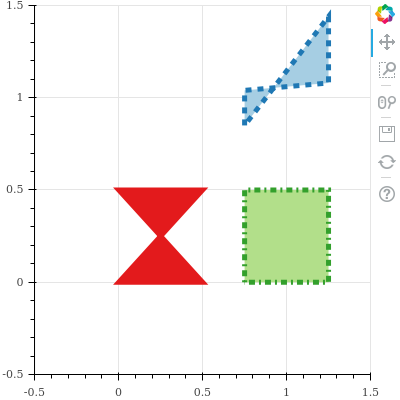
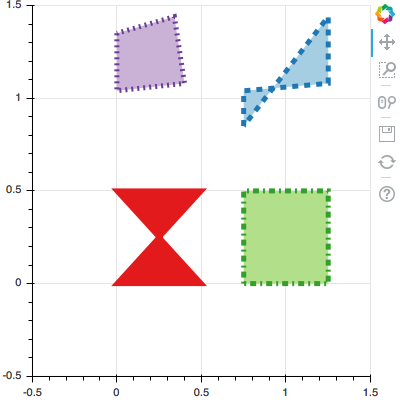
working on glyphs

diff --git a/visualizations/bokeh/figures/patch.html b/visualizations/bokeh/figures/patch.html
@@ -5,9 +5,9 @@
         <meta charset="utf-8">
         <title>Bokeh Plot</title>
         
-<link rel="stylesheet" href="https://cdn.pydata.org/bokeh/release/bokeh-0.12.7.min.css" type="text/css" />
+<link rel="stylesheet" href="https://cdn.pydata.org/bokeh/release/bokeh-0.12.9.min.css" type="text/css" />
         
-<script type="text/javascript" src="https://cdn.pydata.org/bokeh/release/bokeh-0.12.7.min.js"></script>
+<script type="text/javascript" src="https://cdn.pydata.org/bokeh/release/bokeh-0.12.9.min.js"></script>
 <script type="text/javascript">
     Bokeh.set_log_level("info");
 </script>
@@ -26,17 +26,38 @@
     <body>
         
         <div class="bk-root">
-            <div class="bk-plotdiv" id="2cf0758c-d62e-4916-a6c2-0b2ed713cc94"></div>
+            <div class="bk-plotdiv" id="be066793-d713-4ea5-a544-ff64d277d95c"></div>
         </div>
         
         <script type="text/javascript">
             (function() {
           var fn = function() {
             Bokeh.safely(function() {
-              var docs_json = {"1d2ed956-d023-437f-922a-df4885ee4e12":{"roots":{"references":[{"attributes":{},"id":"031e799e-5526-40ce-add3-81c7f3cd5bf5","type":"BasicTicker"},{"attributes":{},"id":"783649a9-7b13-43c9-bb1c-559edea80e43","type":"BasicTickFormatter"},{"attributes":{},"id":"a53f2c96-949e-4280-b8fa-54eeb4a61b49","type":"BasicTicker"},{"attributes":{"fill_color":{"value":"#e31a1c"},"line_color":{"value":"#e31a1c"},"line_width":{"value":5},"x":{"field":"x"},"y":{"field":"y"}},"id":"3ccf216c-2175-4983-8e38-4d4c5ab63ca5","type":"Patch"},{"attributes":{"callback":null,"column_names":["y","x"],"data":{"x":[0,0.5,0,0.5],"y":[0,0.5,0.5,0]}},"id":"83685b91-339f-4bbc-bf65-8c0e359c892e","type":"ColumnDataSource"},{"attributes":{},"id":"c3b8a39f-5ce0-4db8-9dc5-6ad35fe9846f","type":"LinearScale"},{"attributes":{"overlay":{"id":"65f75f9f-3285-4434-b66b-39bb07a7450e","type":"BoxAnnotation"}},"id":"4d49456d-30a8-405a-b2d5-ed7ff653e28e","type":"BoxZoomTool"},{"attributes":{"fill_color":{"value":"#a6cee3"},"line_color":{"value":"#1f78b4"},"line_dash":[6],"line_width":{"value":5},"x":{"field":"x"},"y":{"field":"y"}},"id":"4b864da9-229a-41b8-90b4-dca63ec8a939","type":"Patch"},{"attributes":{"fill_alpha":{"value":0.1},"fill_color":{"value":"#1f77b4"},"line_alpha":{"value":0.1},"line_color":{"value":"#1f77b4"},"line_dash":[6],"line_width":{"value":5},"x":{"field":"x"},"y":{"field":"y"}},"id":"0e69bafe-fbf4-4b23-9811-c5df96c97fb1","type":"Patch"},{"attributes":{"fill_color":{"value":"#a6cee3"},"line_color":{"value":"#1f78b4"},"line_dash":[6],"line_width":{"value":5},"x":{"field":"x"},"y":{"field":"y"}},"id":"c9fff9de-6a8f-4f24-adc7-6ce4940cdd6e","type":"Patch"},{"attributes":{},"id":"0602b227-1480-42d1-a66e-86a65975c71b","type":"BasicTickFormatter"},{"attributes":{"source":{"id":"f5b23d7e-8fbb-467f-b301-7fc6ea789af7","type":"ColumnDataSource"}},"id":"a5012b1f-1249-4eee-a7e6-27b046202a6e","type":"CDSView"},{"attributes":{"plot":{"id":"40107e59-c250-4c44-9ed3-4a3726df6ed9","subtype":"Figure","type":"Plot"},"ticker":{"id":"a53f2c96-949e-4280-b8fa-54eeb4a61b49","type":"BasicTicker"}},"id":"71eb46d8-7958-42c1-a799-90e95cbf6b67","type":"Grid"},{"attributes":{},"id":"efd5be2c-c645-4534-a491-e050ec36cfa5","type":"WheelZoomTool"},{"attributes":{"fill_alpha":{"value":0.1},"fill_color":{"value":"#1f77b4"},"line_alpha":{"value":0.1},"line_color":{"value":"#1f77b4"},"line_width":{"value":5},"x":{"field":"x"},"y":{"field":"y"}},"id":"92dcc0fd-c636-4fc4-9cf4-60e57d223c50","type":"Patch"},{"attributes":{"formatter":{"id":"7d067083-c602-4df6-9245-892c55cc39ee","type":"BasicTickFormatter"},"plot":{"id":"40107e59-c250-4c44-9ed3-4a3726df6ed9","subtype":"Figure","type":"Plot"},"ticker":{"id":"031e799e-5526-40ce-add3-81c7f3cd5bf5","type":"BasicTicker"}},"id":"923780cf-66e6-444a-8ca5-e8988c09cbe1","type":"LinearAxis"},{"attributes":{},"id":"79968414-ca8d-4686-98d8-5f7dd6ecda9d","type":"BasicTicker"},{"attributes":{"data_source":{"id":"f5b23d7e-8fbb-467f-b301-7fc6ea789af7","type":"ColumnDataSource"},"glyph":{"id":"6c5410a0-3aa5-4270-aea4-0842cba5c1f4","type":"Patch"},"hover_glyph":null,"muted_glyph":null,"nonselection_glyph":{"id":"51c5f0de-45fa-4b4d-a3fa-b704635a34c1","type":"Patch"},"selection_glyph":null,"view":{"id":"a5012b1f-1249-4eee-a7e6-27b046202a6e","type":"CDSView"}},"id":"a87ea631-24e8-4779-b33a-820447a7360a","type":"GlyphRenderer"},{"attributes":{"fill_color":{"value":"#b2df8a"},"line_color":{"value":"#33a02c"},"line_dash":[2,4,6,4],"line_width":{"value":5},"x":{"field":"x"},"y":{"field":"y"}},"id":"6c5410a0-3aa5-4270-aea4-0842cba5c1f4","type":"Patch"},{"attributes":{"bounds":[-1,2],"callback":null,"end":1.5,"start":-0.5},"id":"3cc6871c-f84b-4cad-a0b1-6b0635b2a9e0","type":"Range1d"},{"attributes":{},"id":"49033719-64ef-4713-b508-37aa7b1a441a","type":"BasicTicker"},{"attributes":{},"id":"ef94dc9c-6cb8-431a-8c94-095435974932","type":"HelpTool"},{"attributes":{"dimension":1,"plot":{"id":"d9ff9a8d-fe4f-4138-ae7b-86426d08bb76","subtype":"Figure","type":"Plot"},"ticker":{"id":"49033719-64ef-4713-b508-37aa7b1a441a","type":"BasicTicker"}},"id":"6277dd0d-768c-43db-8699-52ffb7747bc9","type":"Grid"},{"attributes":{"fill_color":{"value":"#cab2d6"},"line_color":{"value":"#6a3d9a"},"line_dash":[2,4],"line_width":{"value":5},"x":{"field":"x"},"y":{"field":"y"}},"id":"f6c29d93-8ab6-43f5-8385-7635cf4ab65c","type":"Patch"},{"attributes":{"callback":null,"column_names":["y","x"],"data":{"x":[0.75,0.75,1.25,1.25],"y":[0.85,1.04,1.08,1.44]}},"id":"6ec3e90a-f447-46b9-a627-aa3384a4c715","type":"ColumnDataSource"},{"attributes":{"plot":null,"text":""},"id":"177b1200-b6bd-4154-bb22-ccbb378dfc1e","type":"Title"},{"attributes":{"fill_color":{"value":"#b2df8a"},"line_color":{"value":"#33a02c"},"line_dash":[2,4,6,4],"line_width":{"value":5},"x":{"field":"x"},"y":{"field":"y"}},"id":"ac6e3901-2de1-49e6-95b9-c0b6931ae85c","type":"Patch"},{"attributes":{},"id":"2cd8e201-0aa5-4667-942d-695572f34c43","type":"LinearScale"},{"attributes":{"bounds":[-1,2],"callback":null,"end":1.5,"start":-0.5},"id":"149027be-69a2-4fda-8026-df774d7b6e67","type":"Range1d"},{"attributes":{},"id":"a8ba2ff1-91f9-423a-aa1e-ca48cf7e3005","type":"ResetTool"},{"attributes":{},"id":"43e9833a-2005-47b0-b6d7-e2e536a2f380","type":"LinearScale"},{"attributes":{"data_source":{"id":"5ad27e6c-841e-4d7c-8939-1b69d841e201","type":"ColumnDataSource"},"glyph":{"id":"f6c29d93-8ab6-43f5-8385-7635cf4ab65c","type":"Patch"},"hover_glyph":null,"muted_glyph":null,"nonselection_glyph":{"id":"7af712b8-29a1-470c-a76b-4fdb0f42e5f2","type":"Patch"},"selection_glyph":null,"view":{"id":"7bc45601-b80d-4b09-bce3-eb89c3ca5b0d","type":"CDSView"}},"id":"a7165d2a-b00a-4993-8995-d3b809afcfdc","type":"GlyphRenderer"},{"attributes":{"bounds":[-1,2],"callback":null,"end":1.5,"start":-0.5},"id":"9037298e-64ee-4a86-b092-34eed0d2ca81","type":"Range1d"},{"attributes":{"fill_alpha":{"value":0.1},"fill_color":{"value":"#1f77b4"},"line_alpha":{"value":0.1},"line_color":{"value":"#1f77b4"},"line_dash":[2,4,6,4],"line_width":{"value":5},"x":{"field":"x"},"y":{"field":"y"}},"id":"b1efe2fc-98d8-40ca-be9a-f0584184f5a0","type":"Patch"},{"attributes":{"bottom_units":"screen","fill_alpha":{"value":0.5},"fill_color":{"value":"lightgrey"},"left_units":"screen","level":"overlay","line_alpha":{"value":1.0},"line_color":{"value":"black"},"line_dash":[4,4],"line_width":{"value":2},"plot":null,"render_mode":"css","right_units":"screen","top_units":"screen"},"id":"3a81ff9d-6a40-4730-b91e-39a7ecce71fb","type":"BoxAnnotation"},{"attributes":{"dimension":1,"plot":{"id":"40107e59-c250-4c44-9ed3-4a3726df6ed9","subtype":"Figure","type":"Plot"},"ticker":{"id":"031e799e-5526-40ce-add3-81c7f3cd5bf5","type":"BasicTicker"}},"id":"64c9554e-ceb7-464c-bddd-da0d145a5daf","type":"Grid"},{"attributes":{"below":[{"id":"6d604e4c-e144-428a-b302-8fc83f8bcedc","type":"LinearAxis"}],"left":[{"id":"923780cf-66e6-444a-8ca5-e8988c09cbe1","type":"LinearAxis"}],"plot_height":400,"plot_width":400,"renderers":[{"id":"6d604e4c-e144-428a-b302-8fc83f8bcedc","type":"LinearAxis"},{"id":"71eb46d8-7958-42c1-a799-90e95cbf6b67","type":"Grid"},{"id":"923780cf-66e6-444a-8ca5-e8988c09cbe1","type":"LinearAxis"},{"id":"64c9554e-ceb7-464c-bddd-da0d145a5daf","type":"Grid"},{"id":"65f75f9f-3285-4434-b66b-39bb07a7450e","type":"BoxAnnotation"},{"id":"c5368b68-6254-466b-b20d-20ae8445141d","type":"GlyphRenderer"},{"id":"a8b3e653-59f0-4fd9-aefe-cff5b06f36e6","type":"GlyphRenderer"},{"id":"cc0bd5d7-e7b9-4c79-8f73-10c1e8dabd74","type":"GlyphRenderer"}],"title":{"id":"177b1200-b6bd-4154-bb22-ccbb378dfc1e","type":"Title"},"toolbar":{"id":"1daea587-7221-43f2-8d65-b5736f5aba72","type":"Toolbar"},"x_range":{"id":"3cc6871c-f84b-4cad-a0b1-6b0635b2a9e0","type":"Range1d"},"x_scale":{"id":"43e9833a-2005-47b0-b6d7-e2e536a2f380","type":"LinearScale"},"y_range":{"id":"e194daac-6265-4caf-a155-4c14b8584d8b","type":"Range1d"},"y_scale":{"id":"038f6c83-dc85-40a4-94ec-0d16649b500f","type":"LinearScale"}},"id":"40107e59-c250-4c44-9ed3-4a3726df6ed9","subtype":"Figure","type":"Plot"},{"attributes":{"callback":null,"column_names":["y","x"],"data":{"x":[0.75,0.75,1.25,1.25],"y":[0.85,1.04,1.08,1.44]}},"id":"1c8c70b6-abf4-4e9a-846d-0c379ab33a0a","type":"ColumnDataSource"},{"attributes":{},"id":"b2e44021-b923-4e7d-a6bb-28e6ff9cbe1a","type":"SaveTool"},{"attributes":{"formatter":{"id":"783649a9-7b13-43c9-bb1c-559edea80e43","type":"BasicTickFormatter"},"plot":{"id":"d9ff9a8d-fe4f-4138-ae7b-86426d08bb76","subtype":"Figure","type":"Plot"},"ticker":{"id":"79968414-ca8d-4686-98d8-5f7dd6ecda9d","type":"BasicTicker"}},"id":"dfc4ce8b-ee09-48c5-b7f1-9906ab9da1b5","type":"LinearAxis"},{"attributes":{},"id":"af3243d9-d35b-479f-b638-d71a2b7cbbf2","type":"BasicTickFormatter"},{"attributes":{"callback":null,"column_names":["y","x"],"data":{"x":[0.75,0.75,1.25,1.25],"y":[0,0.5,0.5,0]}},"id":"41f3783d-e0df-46c6-bd16-02d18ca63759","type":"ColumnDataSource"},{"attributes":{"fill_alpha":{"value":0.1},"fill_color":{"value":"#1f77b4"},"line_alpha":{"value":0.1},"line_color":{"value":"#1f77b4"},"line_dash":[2,4,6,4],"line_width":{"value":5},"x":{"field":"x"},"y":{"field":"y"}},"id":"51c5f0de-45fa-4b4d-a3fa-b704635a34c1","type":"Patch"},{"attributes":{"bounds":[-1,2],"callback":null,"end":1.5,"start":-0.5},"id":"e194daac-6265-4caf-a155-4c14b8584d8b","type":"Range1d"},{"attributes":{"formatter":{"id":"0602b227-1480-42d1-a66e-86a65975c71b","type":"BasicTickFormatter"},"plot":{"id":"d9ff9a8d-fe4f-4138-ae7b-86426d08bb76","subtype":"Figure","type":"Plot"},"ticker":{"id":"49033719-64ef-4713-b508-37aa7b1a441a","type":"BasicTicker"}},"id":"2a2468ba-07be-4677-9afc-eeff464e1607","type":"LinearAxis"},{"attributes":{"source":{"id":"41f3783d-e0df-46c6-bd16-02d18ca63759","type":"ColumnDataSource"}},"id":"7be97d2e-df9a-4a6e-a23d-2df51065b2f9","type":"CDSView"},{"attributes":{"data_source":{"id":"7b03a29e-695d-48c9-bf1a-b7f462319091","type":"ColumnDataSource"},"glyph":{"id":"f2d82cc8-910a-434e-bde3-31d20c42064f","type":"Patch"},"hover_glyph":null,"muted_glyph":null,"nonselection_glyph":{"id":"a78a3837-5f10-44b7-9c22-43bc05b9e00d","type":"Patch"},"selection_glyph":null,"view":{"id":"cbc02ddc-7483-4523-85de-5414f2ba7eb3","type":"CDSView"}},"id":"0fce864d-81d0-4056-8464-481a7424edff","type":"GlyphRenderer"},{"attributes":{"fill_color":{"value":"#e31a1c"},"line_color":{"value":"#e31a1c"},"line_width":{"value":5},"x":{"field":"x"},"y":{"field":"y"}},"id":"f2d82cc8-910a-434e-bde3-31d20c42064f","type":"Patch"},{"attributes":{"source":{"id":"1c8c70b6-abf4-4e9a-846d-0c379ab33a0a","type":"ColumnDataSource"}},"id":"61aae645-6d7c-4840-85cf-dddc45d30292","type":"CDSView"},{"attributes":{"below":[{"id":"dfc4ce8b-ee09-48c5-b7f1-9906ab9da1b5","type":"LinearAxis"}],"left":[{"id":"2a2468ba-07be-4677-9afc-eeff464e1607","type":"LinearAxis"}],"plot_height":400,"plot_width":400,"renderers":[{"id":"dfc4ce8b-ee09-48c5-b7f1-9906ab9da1b5","type":"LinearAxis"},{"id":"ab4c9503-8066-4458-a31f-6d842fe3b996","type":"Grid"},{"id":"2a2468ba-07be-4677-9afc-eeff464e1607","type":"LinearAxis"},{"id":"6277dd0d-768c-43db-8699-52ffb7747bc9","type":"Grid"},{"id":"3a81ff9d-6a40-4730-b91e-39a7ecce71fb","type":"BoxAnnotation"},{"id":"0fce864d-81d0-4056-8464-481a7424edff","type":"GlyphRenderer"},{"id":"a87ea631-24e8-4779-b33a-820447a7360a","type":"GlyphRenderer"},{"id":"0b53b412-20fd-46e2-a4f5-11a2172a43cd","type":"GlyphRenderer"},{"id":"a7165d2a-b00a-4993-8995-d3b809afcfdc","type":"GlyphRenderer"}],"title":{"id":"37ce132a-5087-4680-b360-d2ae9ed99b68","type":"Title"},"toolbar":{"id":"bdf06b0c-229b-4c37-90c5-31de34cb34ae","type":"Toolbar"},"x_range":{"id":"9037298e-64ee-4a86-b092-34eed0d2ca81","type":"Range1d"},"x_scale":{"id":"2cd8e201-0aa5-4667-942d-695572f34c43","type":"LinearScale"},"y_range":{"id":"149027be-69a2-4fda-8026-df774d7b6e67","type":"Range1d"},"y_scale":{"id":"c3b8a39f-5ce0-4db8-9dc5-6ad35fe9846f","type":"LinearScale"}},"id":"d9ff9a8d-fe4f-4138-ae7b-86426d08bb76","subtype":"Figure","type":"Plot"},{"attributes":{"plot":{"id":"d9ff9a8d-fe4f-4138-ae7b-86426d08bb76","subtype":"Figure","type":"Plot"},"ticker":{"id":"79968414-ca8d-4686-98d8-5f7dd6ecda9d","type":"BasicTicker"}},"id":"ab4c9503-8066-4458-a31f-6d842fe3b996","type":"Grid"},{"attributes":{"source":{"id":"7b03a29e-695d-48c9-bf1a-b7f462319091","type":"ColumnDataSource"}},"id":"cbc02ddc-7483-4523-85de-5414f2ba7eb3","type":"CDSView"},{"attributes":{"plot":null,"text":""},"id":"37ce132a-5087-4680-b360-d2ae9ed99b68","type":"Title"},{"attributes":{"data_source":{"id":"41f3783d-e0df-46c6-bd16-02d18ca63759","type":"ColumnDataSource"},"glyph":{"id":"ac6e3901-2de1-49e6-95b9-c0b6931ae85c","type":"Patch"},"hover_glyph":null,"muted_glyph":null,"nonselection_glyph":{"id":"b1efe2fc-98d8-40ca-be9a-f0584184f5a0","type":"Patch"},"selection_glyph":null,"view":{"id":"7be97d2e-df9a-4a6e-a23d-2df51065b2f9","type":"CDSView"}},"id":"a8b3e653-59f0-4fd9-aefe-cff5b06f36e6","type":"GlyphRenderer"},{"attributes":{},"id":"7d067083-c602-4df6-9245-892c55cc39ee","type":"BasicTickFormatter"},{"attributes":{"source":{"id":"83685b91-339f-4bbc-bf65-8c0e359c892e","type":"ColumnDataSource"}},"id":"3c9e39b3-f53a-4ffa-a5c9-95a3dab0c33c","type":"CDSView"},{"attributes":{"data_source":{"id":"6ec3e90a-f447-46b9-a627-aa3384a4c715","type":"ColumnDataSource"},"glyph":{"id":"c9fff9de-6a8f-4f24-adc7-6ce4940cdd6e","type":"Patch"},"hover_glyph":null,"muted_glyph":null,"nonselection_glyph":{"id":"0e69bafe-fbf4-4b23-9811-c5df96c97fb1","type":"Patch"},"selection_glyph":null,"view":{"id":"1a965ad6-6dcb-4955-8770-4909d5cb0684","type":"CDSView"}},"id":"0b53b412-20fd-46e2-a4f5-11a2172a43cd","type":"GlyphRenderer"},{"attributes":{"fill_alpha":{"value":0.1},"fill_color":{"value":"#1f77b4"},"line_alpha":{"value":0.1},"line_color":{"value":"#1f77b4"},"line_dash":[2,4],"line_width":{"value":5},"x":{"field":"x"},"y":{"field":"y"}},"id":"7af712b8-29a1-470c-a76b-4fdb0f42e5f2","type":"Patch"},{"attributes":{"bottom_units":"screen","fill_alpha":{"value":0.5},"fill_color":{"value":"lightgrey"},"left_units":"screen","level":"overlay","line_alpha":{"value":1.0},"line_color":{"value":"black"},"line_dash":[4,4],"line_width":{"value":2},"plot":null,"render_mode":"css","right_units":"screen","top_units":"screen"},"id":"65f75f9f-3285-4434-b66b-39bb07a7450e","type":"BoxAnnotation"},{"attributes":{},"id":"e5b281da-4fb7-420c-8ef0-d3c4a049a4fa","type":"HelpTool"},{"attributes":{},"id":"f3e5c8f9-437d-4172-aae9-b6a5c0e98d97","type":"WheelZoomTool"},{"attributes":{"callback":null,"column_names":["y","x"],"data":{"x":[0.75,0.75,1.25,1.25],"y":[0,0.5,0.5,0]}},"id":"f5b23d7e-8fbb-467f-b301-7fc6ea789af7","type":"ColumnDataSource"},{"attributes":{"fill_alpha":{"value":0.1},"fill_color":{"value":"#1f77b4"},"line_alpha":{"value":0.1},"line_color":{"value":"#1f77b4"},"line_width":{"value":5},"x":{"field":"x"},"y":{"field":"y"}},"id":"a78a3837-5f10-44b7-9c22-43bc05b9e00d","type":"Patch"},{"attributes":{"callback":null,"column_names":["y","x"],"data":{"x":[0,0,0.4,0.34],"y":[1.35,1.04,1.08,1.44]}},"id":"5ad27e6c-841e-4d7c-8939-1b69d841e201","type":"ColumnDataSource"},{"attributes":{"fill_alpha":{"value":0.1},"fill_color":{"value":"#1f77b4"},"line_alpha":{"value":0.1},"line_color":{"value":"#1f77b4"},"line_dash":[6],"line_width":{"value":5},"x":{"field":"x"},"y":{"field":"y"}},"id":"2bbd37ae-846e-4fcc-b989-9ebfacaa1e44","type":"Patch"},{"attributes":{"data_source":{"id":"1c8c70b6-abf4-4e9a-846d-0c379ab33a0a","type":"ColumnDataSource"},"glyph":{"id":"4b864da9-229a-41b8-90b4-dca63ec8a939","type":"Patch"},"hover_glyph":null,"muted_glyph":null,"nonselection_glyph":{"id":"2bbd37ae-846e-4fcc-b989-9ebfacaa1e44","type":"Patch"},"selection_glyph":null,"view":{"id":"61aae645-6d7c-4840-85cf-dddc45d30292","type":"CDSView"}},"id":"cc0bd5d7-e7b9-4c79-8f73-10c1e8dabd74","type":"GlyphRenderer"},{"attributes":{},"id":"3f3bd9d7-b638-45f2-ac50-61deb3323735","type":"PanTool"},{"attributes":{},"id":"8db760e7-62d7-40ea-a1fc-6bdee5535d46","type":"SaveTool"},{"attributes":{},"id":"038f6c83-dc85-40a4-94ec-0d16649b500f","type":"LinearScale"},{"attributes":{"formatter":{"id":"af3243d9-d35b-479f-b638-d71a2b7cbbf2","type":"BasicTickFormatter"},"plot":{"id":"40107e59-c250-4c44-9ed3-4a3726df6ed9","subtype":"Figure","type":"Plot"},"ticker":{"id":"a53f2c96-949e-4280-b8fa-54eeb4a61b49","type":"BasicTicker"}},"id":"6d604e4c-e144-428a-b302-8fc83f8bcedc","type":"LinearAxis"},{"attributes":{"source":{"id":"5ad27e6c-841e-4d7c-8939-1b69d841e201","type":"ColumnDataSource"}},"id":"7bc45601-b80d-4b09-bce3-eb89c3ca5b0d","type":"CDSView"},{"attributes":{"data_source":{"id":"83685b91-339f-4bbc-bf65-8c0e359c892e","type":"ColumnDataSource"},"glyph":{"id":"3ccf216c-2175-4983-8e38-4d4c5ab63ca5","type":"Patch"},"hover_glyph":null,"muted_glyph":null,"nonselection_glyph":{"id":"92dcc0fd-c636-4fc4-9cf4-60e57d223c50","type":"Patch"},"selection_glyph":null,"view":{"id":"3c9e39b3-f53a-4ffa-a5c9-95a3dab0c33c","type":"CDSView"}},"id":"c5368b68-6254-466b-b20d-20ae8445141d","type":"GlyphRenderer"},{"attributes":{"overlay":{"id":"3a81ff9d-6a40-4730-b91e-39a7ecce71fb","type":"BoxAnnotation"}},"id":"f9edfc0b-6c89-4da9-922f-ee248467651e","type":"BoxZoomTool"},{"attributes":{"active_drag":"auto","active_inspect":"auto","active_scroll":"auto","active_tap":"auto","tools":[{"id":"3f3bd9d7-b638-45f2-ac50-61deb3323735","type":"PanTool"},{"id":"efd5be2c-c645-4534-a491-e050ec36cfa5","type":"WheelZoomTool"},{"id":"f9edfc0b-6c89-4da9-922f-ee248467651e","type":"BoxZoomTool"},{"id":"b2e44021-b923-4e7d-a6bb-28e6ff9cbe1a","type":"SaveTool"},{"id":"b8d39ee3-12c1-419c-83b3-d47daef8af59","type":"ResetTool"},{"id":"e5b281da-4fb7-420c-8ef0-d3c4a049a4fa","type":"HelpTool"}]},"id":"bdf06b0c-229b-4c37-90c5-31de34cb34ae","type":"Toolbar"},{"attributes":{"callback":null,"column_names":["y","x"],"data":{"x":[0,0.5,0,0.5],"y":[0,0.5,0.5,0]}},"id":"7b03a29e-695d-48c9-bf1a-b7f462319091","type":"ColumnDataSource"},{"attributes":{},"id":"dc43cf26-760f-4473-a7a4-501ba0d956bb","type":"PanTool"},{"attributes":{"active_drag":"auto","active_inspect":"auto","active_scroll":"auto","active_tap":"auto","tools":[{"id":"dc43cf26-760f-4473-a7a4-501ba0d956bb","type":"PanTool"},{"id":"f3e5c8f9-437d-4172-aae9-b6a5c0e98d97","type":"WheelZoomTool"},{"id":"4d49456d-30a8-405a-b2d5-ed7ff653e28e","type":"BoxZoomTool"},{"id":"8db760e7-62d7-40ea-a1fc-6bdee5535d46","type":"SaveTool"},{"id":"a8ba2ff1-91f9-423a-aa1e-ca48cf7e3005","type":"ResetTool"},{"id":"ef94dc9c-6cb8-431a-8c94-095435974932","type":"HelpTool"}]},"id":"1daea587-7221-43f2-8d65-b5736f5aba72","type":"Toolbar"},{"attributes":{},"id":"b8d39ee3-12c1-419c-83b3-d47daef8af59","type":"ResetTool"},{"attributes":{"source":{"id":"6ec3e90a-f447-46b9-a627-aa3384a4c715","type":"ColumnDataSource"}},"id":"1a965ad6-6dcb-4955-8770-4909d5cb0684","type":"CDSView"}],"root_ids":["d9ff9a8d-fe4f-4138-ae7b-86426d08bb76","40107e59-c250-4c44-9ed3-4a3726df6ed9"]},"title":"Bokeh Application","version":"0.12.7"}};
-              var render_items = [{"docid":"1d2ed956-d023-437f-922a-df4885ee4e12","elementid":"2cf0758c-d62e-4916-a6c2-0b2ed713cc94","modelid":"40107e59-c250-4c44-9ed3-4a3726df6ed9"}];
+              (function(root) {
+                function embed_document(root) {
+                  var docs_json = {"bca15618-04f9-4a15-81fe-62ab88fc1537":{"roots":{"references":[{"attributes":{"callback":null,"column_names":["x","y"],"data":{"x":[0.75,0.75,1.25,1.25],"y":[0,0.5,0.5,0]}},"id":"4799ecbc-4aef-4295-a7e0-7d653e915feb","type":"ColumnDataSource"},{"attributes":{"active_drag":"auto","active_inspect":"auto","active_scroll":"auto","active_tap":"auto","tools":[{"id":"4ecfe9c8-d6d8-4c7d-a0de-218e4e5010e3","type":"PanTool"},{"id":"4de0271d-d940-46f3-bf1c-2025b10f318f","type":"WheelZoomTool"},{"id":"f8dcc945-a521-4fee-8df0-d2cf801c2036","type":"BoxZoomTool"},{"id":"e6eb3225-cee6-4157-9daa-9660d1c3670c","type":"SaveTool"},{"id":"2c06b0f8-205e-4cd7-abaa-6670a5e2bf9d","type":"ResetTool"},{"id":"3a26a8f1-65a1-4cd1-97c6-8c1a2282f323","type":"HelpTool"}]},"id":"8648b2e6-48d6-4134-a57e-d53287eafe32","type":"Toolbar"},{"attributes":{"plot":null,"text":""},"id":"5a3f6553-340b-4529-9c00-5e40a4c21af3","type":"Title"},{"attributes":{},"id":"fce8f294-e773-4c35-bee8-50953bc18554","type":"BasicTickFormatter"},{"attributes":{},"id":"82b337dc-1ecf-43a5-9d24-9b4c2b4f0c4c","type":"LinearScale"},{"attributes":{"fill_alpha":{"value":0.1},"fill_color":{"value":"#1f77b4"},"line_alpha":{"value":0.1},"line_color":{"value":"#1f77b4"},"line_dash":[2,4],"line_width":{"value":5},"x":{"field":"x"},"y":{"field":"y"}},"id":"c97466d2-d02b-43c6-966a-356ffd5bd928","type":"Patch"},{"attributes":{},"id":"17b7e2e8-867b-4ba0-8d33-fa363e5f7f58","type":"BasicTicker"},{"attributes":{"data_source":{"id":"73eda013-819c-4fcf-b073-841b4fa45742","type":"ColumnDataSource"},"glyph":{"id":"fd02c25c-f6bd-4b54-b413-863319448a55","type":"Patch"},"hover_glyph":null,"muted_glyph":null,"nonselection_glyph":{"id":"e5ceeed4-d2c0-4eca-a855-14fc7f1ac9c6","type":"Patch"},"selection_glyph":null,"view":{"id":"ec908fbd-08de-4f54-ad76-1ebc9367b2eb","type":"CDSView"}},"id":"aca4b158-5e2d-48af-a77a-ddd864e03c36","type":"GlyphRenderer"},{"attributes":{},"id":"8e0bd218-e78c-4e46-a340-421dac56a494","type":"LinearScale"},{"attributes":{"source":{"id":"73eda013-819c-4fcf-b073-841b4fa45742","type":"ColumnDataSource"}},"id":"ec908fbd-08de-4f54-ad76-1ebc9367b2eb","type":"CDSView"},{"attributes":{"formatter":{"id":"fce8f294-e773-4c35-bee8-50953bc18554","type":"BasicTickFormatter"},"plot":{"id":"3f43d225-3750-4ad5-ad3e-fee2c9005474","subtype":"Figure","type":"Plot"},"ticker":{"id":"17b7e2e8-867b-4ba0-8d33-fa363e5f7f58","type":"BasicTicker"}},"id":"2a1e58c6-c669-496a-86bf-af1ad8ec64f5","type":"LinearAxis"},{"attributes":{"plot":{"id":"3f43d225-3750-4ad5-ad3e-fee2c9005474","subtype":"Figure","type":"Plot"},"ticker":{"id":"17b7e2e8-867b-4ba0-8d33-fa363e5f7f58","type":"BasicTicker"}},"id":"80217899-3007-4cd9-b9dc-5995b50089e2","type":"Grid"},{"attributes":{"formatter":{"id":"5774c01e-fc09-404a-9f7c-e7e20056625b","type":"BasicTickFormatter"},"plot":{"id":"3f43d225-3750-4ad5-ad3e-fee2c9005474","subtype":"Figure","type":"Plot"},"ticker":{"id":"b3584b23-51ed-404d-b468-f56ecdd0b4fe","type":"BasicTicker"}},"id":"99632568-5bce-404a-99cd-cf84c91aa2b4","type":"LinearAxis"},{"attributes":{},"id":"b3584b23-51ed-404d-b468-f56ecdd0b4fe","type":"BasicTicker"},{"attributes":{"dimension":1,"plot":{"id":"3f43d225-3750-4ad5-ad3e-fee2c9005474","subtype":"Figure","type":"Plot"},"ticker":{"id":"b3584b23-51ed-404d-b468-f56ecdd0b4fe","type":"BasicTicker"}},"id":"32c95ce1-f648-4f0f-b8ad-a69307e9fd0c","type":"Grid"},{"attributes":{"bottom_units":"screen","fill_alpha":{"value":0.5},"fill_color":{"value":"lightgrey"},"left_units":"screen","level":"overlay","line_alpha":{"value":1.0},"line_color":{"value":"black"},"line_dash":[4,4],"line_width":{"value":2},"plot":null,"render_mode":"css","right_units":"screen","top_units":"screen"},"id":"1874b4e4-5650-4499-acc4-33df5b8ed750","type":"BoxAnnotation"},{"attributes":{},"id":"4ecfe9c8-d6d8-4c7d-a0de-218e4e5010e3","type":"PanTool"},{"attributes":{},"id":"4de0271d-d940-46f3-bf1c-2025b10f318f","type":"WheelZoomTool"},{"attributes":{"overlay":{"id":"1874b4e4-5650-4499-acc4-33df5b8ed750","type":"BoxAnnotation"}},"id":"f8dcc945-a521-4fee-8df0-d2cf801c2036","type":"BoxZoomTool"},{"attributes":{},"id":"e6eb3225-cee6-4157-9daa-9660d1c3670c","type":"SaveTool"},{"attributes":{},"id":"2c06b0f8-205e-4cd7-abaa-6670a5e2bf9d","type":"ResetTool"},{"attributes":{},"id":"3a26a8f1-65a1-4cd1-97c6-8c1a2282f323","type":"HelpTool"},{"attributes":{},"id":"5774c01e-fc09-404a-9f7c-e7e20056625b","type":"BasicTickFormatter"},{"attributes":{"fill_color":{"value":"#b2df8a"},"line_color":{"value":"#33a02c"},"line_dash":[2,4,6,4],"line_width":{"value":5},"x":{"field":"x"},"y":{"field":"y"}},"id":"dc629194-42d9-471c-b192-c5a61335882a","type":"Patch"},{"attributes":{"fill_alpha":{"value":0.1},"fill_color":{"value":"#1f77b4"},"line_alpha":{"value":0.1},"line_color":{"value":"#1f77b4"},"line_dash":[6],"line_width":{"value":5},"x":{"field":"x"},"y":{"field":"y"}},"id":"c18e8ba2-2e53-45d2-abc4-7e0330f87d14","type":"Patch"},{"attributes":{"data_source":{"id":"4799ecbc-4aef-4295-a7e0-7d653e915feb","type":"ColumnDataSource"},"glyph":{"id":"dc629194-42d9-471c-b192-c5a61335882a","type":"Patch"},"hover_glyph":null,"muted_glyph":null,"nonselection_glyph":{"id":"39fa8d21-81d3-4b15-bb6f-dc34e0933e87","type":"Patch"},"selection_glyph":null,"view":{"id":"56157cb0-07bb-41ad-b5ce-35931fd43483","type":"CDSView"}},"id":"6c742d76-09b9-4ba0-a43c-205fd61bd472","type":"GlyphRenderer"},{"attributes":{"callback":null,"column_names":["x","y"],"data":{"x":[0.75,0.75,1.25,1.25],"y":[0.85,1.04,1.08,1.44]}},"id":"f7ba596b-f408-47a6-a3a4-7b1fb5649f8d","type":"ColumnDataSource"},{"attributes":{"fill_color":{"value":"#cab2d6"},"line_color":{"value":"#6a3d9a"},"line_dash":[2,4],"line_width":{"value":5},"x":{"field":"x"},"y":{"field":"y"}},"id":"a1810b45-8434-44c1-a6fd-6738a1f7ec8a","type":"Patch"},{"attributes":{"fill_alpha":{"value":0.1},"fill_color":{"value":"#1f77b4"},"line_alpha":{"value":0.1},"line_color":{"value":"#1f77b4"},"line_dash":[2,4,6,4],"line_width":{"value":5},"x":{"field":"x"},"y":{"field":"y"}},"id":"39fa8d21-81d3-4b15-bb6f-dc34e0933e87","type":"Patch"},{"attributes":{"source":{"id":"4799ecbc-4aef-4295-a7e0-7d653e915feb","type":"ColumnDataSource"}},"id":"56157cb0-07bb-41ad-b5ce-35931fd43483","type":"CDSView"},{"attributes":{"fill_color":{"value":"#a6cee3"},"line_color":{"value":"#1f78b4"},"line_dash":[6],"line_width":{"value":5},"x":{"field":"x"},"y":{"field":"y"}},"id":"081dc8aa-feba-48fb-af0f-1ab6701fdf5f","type":"Patch"},{"attributes":{"callback":null,"column_names":["x","y"],"data":{"x":[0,0,0.4,0.34],"y":[1.35,1.04,1.08,1.44]}},"id":"a6ad1241-43d6-4fda-8577-cc046d25aa42","type":"ColumnDataSource"},{"attributes":{"source":{"id":"f7ba596b-f408-47a6-a3a4-7b1fb5649f8d","type":"ColumnDataSource"}},"id":"83a0a893-843e-4ea1-bd57-5698cc7c53ca","type":"CDSView"},{"attributes":{"bounds":[-1,2],"callback":null,"end":1.5,"start":-0.5},"id":"a0b290f8-dbcb-43dd-a844-32fa36634606","type":"Range1d"},{"attributes":{"data_source":{"id":"f7ba596b-f408-47a6-a3a4-7b1fb5649f8d","type":"ColumnDataSource"},"glyph":{"id":"081dc8aa-feba-48fb-af0f-1ab6701fdf5f","type":"Patch"},"hover_glyph":null,"muted_glyph":null,"nonselection_glyph":{"id":"c18e8ba2-2e53-45d2-abc4-7e0330f87d14","type":"Patch"},"selection_glyph":null,"view":{"id":"83a0a893-843e-4ea1-bd57-5698cc7c53ca","type":"CDSView"}},"id":"fb4a8264-0bd1-49fc-891b-6a2da8c429c1","type":"GlyphRenderer"},{"attributes":{"data_source":{"id":"a6ad1241-43d6-4fda-8577-cc046d25aa42","type":"ColumnDataSource"},"glyph":{"id":"a1810b45-8434-44c1-a6fd-6738a1f7ec8a","type":"Patch"},"hover_glyph":null,"muted_glyph":null,"nonselection_glyph":{"id":"c97466d2-d02b-43c6-966a-356ffd5bd928","type":"Patch"},"selection_glyph":null,"view":{"id":"52f16f92-954a-4bcb-a1ea-6f5d48d7750d","type":"CDSView"}},"id":"fab0991c-63ad-44fe-b818-eb73cf4c57e8","type":"GlyphRenderer"},{"attributes":{"bounds":[-1,2],"callback":null,"end":1.5,"start":-0.5},"id":"38e01d42-a4a4-4b7b-84bc-1bde050f5293","type":"Range1d"},{"attributes":{"source":{"id":"a6ad1241-43d6-4fda-8577-cc046d25aa42","type":"ColumnDataSource"}},"id":"52f16f92-954a-4bcb-a1ea-6f5d48d7750d","type":"CDSView"},{"attributes":{"fill_alpha":{"value":0.1},"fill_color":{"value":"#1f77b4"},"line_alpha":{"value":0.1},"line_color":{"value":"#1f77b4"},"line_width":{"value":5},"x":{"field":"x"},"y":{"field":"y"}},"id":"e5ceeed4-d2c0-4eca-a855-14fc7f1ac9c6","type":"Patch"},{"attributes":{"below":[{"id":"2a1e58c6-c669-496a-86bf-af1ad8ec64f5","type":"LinearAxis"}],"left":[{"id":"99632568-5bce-404a-99cd-cf84c91aa2b4","type":"LinearAxis"}],"plot_height":400,"plot_width":400,"renderers":[{"id":"2a1e58c6-c669-496a-86bf-af1ad8ec64f5","type":"LinearAxis"},{"id":"80217899-3007-4cd9-b9dc-5995b50089e2","type":"Grid"},{"id":"99632568-5bce-404a-99cd-cf84c91aa2b4","type":"LinearAxis"},{"id":"32c95ce1-f648-4f0f-b8ad-a69307e9fd0c","type":"Grid"},{"id":"1874b4e4-5650-4499-acc4-33df5b8ed750","type":"BoxAnnotation"},{"id":"aca4b158-5e2d-48af-a77a-ddd864e03c36","type":"GlyphRenderer"},{"id":"6c742d76-09b9-4ba0-a43c-205fd61bd472","type":"GlyphRenderer"},{"id":"fb4a8264-0bd1-49fc-891b-6a2da8c429c1","type":"GlyphRenderer"},{"id":"fab0991c-63ad-44fe-b818-eb73cf4c57e8","type":"GlyphRenderer"}],"title":{"id":"5a3f6553-340b-4529-9c00-5e40a4c21af3","type":"Title"},"toolbar":{"id":"8648b2e6-48d6-4134-a57e-d53287eafe32","type":"Toolbar"},"x_range":{"id":"38e01d42-a4a4-4b7b-84bc-1bde050f5293","type":"Range1d"},"x_scale":{"id":"82b337dc-1ecf-43a5-9d24-9b4c2b4f0c4c","type":"LinearScale"},"y_range":{"id":"a0b290f8-dbcb-43dd-a844-32fa36634606","type":"Range1d"},"y_scale":{"id":"8e0bd218-e78c-4e46-a340-421dac56a494","type":"LinearScale"}},"id":"3f43d225-3750-4ad5-ad3e-fee2c9005474","subtype":"Figure","type":"Plot"},{"attributes":{"callback":null,"column_names":["x","y"],"data":{"x":[0,0.5,0,0.5],"y":[0,0.5,0.5,0]}},"id":"73eda013-819c-4fcf-b073-841b4fa45742","type":"ColumnDataSource"},{"attributes":{"fill_color":{"value":"#e31a1c"},"line_color":{"value":"#e31a1c"},"line_width":{"value":5},"x":{"field":"x"},"y":{"field":"y"}},"id":"fd02c25c-f6bd-4b54-b413-863319448a55","type":"Patch"}],"root_ids":["3f43d225-3750-4ad5-ad3e-fee2c9005474"]},"title":"Bokeh Application","version":"0.12.9"}};
+                  var render_items = [{"docid":"bca15618-04f9-4a15-81fe-62ab88fc1537","elementid":"be066793-d713-4ea5-a544-ff64d277d95c","modelid":"3f43d225-3750-4ad5-ad3e-fee2c9005474"}];
               
-              Bokeh.embed.embed_items(docs_json, render_items);
+                  root.Bokeh.embed.embed_items(docs_json, render_items);
+                }
+              
+                if (root.Bokeh !== undefined) {
+                  embed_document(root);
+                } else {
+                  var attempts = 0;
+                  var timer = setInterval(function(root) {
+                    if (root.Bokeh !== undefined) {
+                      embed_document(root);
+                      clearInterval(timer);
+                    }
+                    attempts++;
+                    if (attempts > 100) {
+                      console.log("Bokeh: ERROR: Unable to embed document because BokehJS library is missing")
+                      clearInterval(timer);
+                    }
+                  }, 10, root)
+                }
+              })(window);
             });
           };
           if (document.readyState != "loading") fn();
